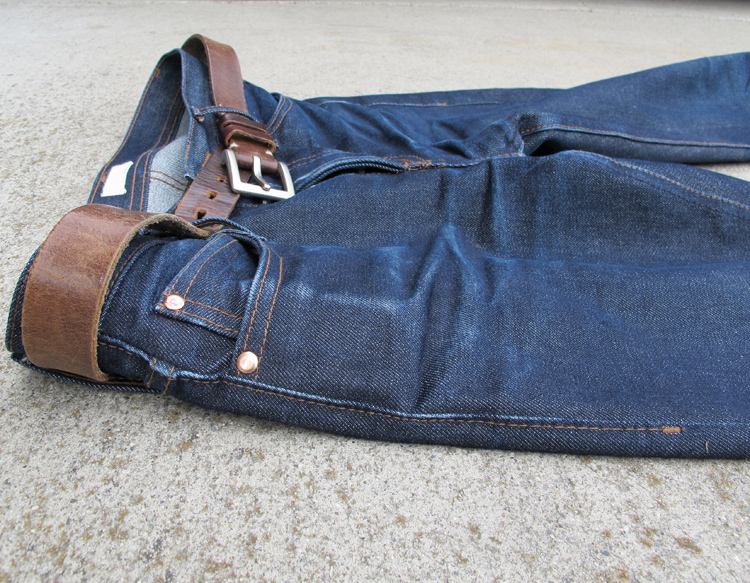
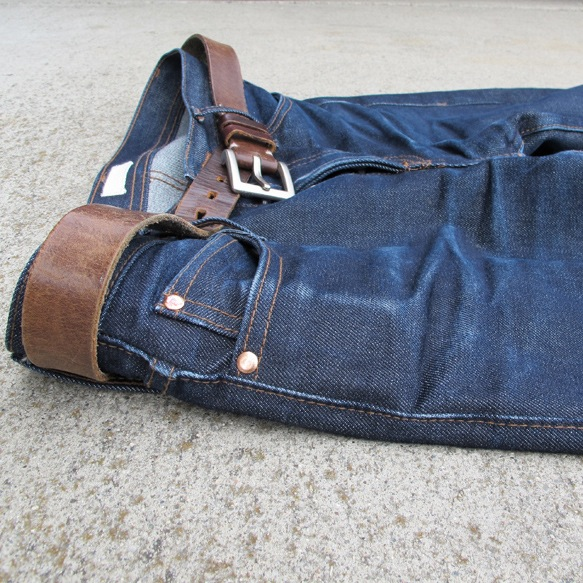
Updated image sizing, redid descriptions, changed a few items

diff --git a/index.html b/index.html
@@ -1,21 +1,15 @@
 <html>
   <head>
-    <title>A Basic (Frugal) Wardrobe</title>
+    <title>A (Frugal) Basic Wardrobe</title>
     <link rel="stylesheet" href="style.css">
     <link rel="stylesheet" href="basket.css">
     <link href='http://fonts.googleapis.com/css?family=Crimson+Text:400,600' rel='stylesheet' type='text/css'>
   </head>
   <body class="basket">
     <header class="basket-whole">
-      <h1>A Basic Wardrobe</h1>
+      <h1>A (Frugal) Basic Wardrobe</h1>
       <p>
         The goal of this website is to present a minimal <a target="_blank" href="http://en.wikipedia.org/wiki/Capsule_wardrobe">capsule wardrobe</a> for men with frugal pieces. Most, if not all, of the items will be under $100. Check the <a target="_blank" href="http://basicwardrobe.info">original site</a> for higher quality items.
-      </p>
-      <p>
-        A good thing to note is that frugal does not mean cheap. It is to get the best bang for your buck without sacrificing too much quality. High, mid, low end designations will still exist but it will be within the frugal range.
-      </p>
-      <p>
-        To stretch your dollar, wait for sales. Some companies (Land's End) do sales very often while other brands (Brooks Brothers) do sales at specific times in the year. Take advantage of sales when possible.
       </p>
       <br>
       <nav>
@@ -34,10 +28,10 @@
 
       <li>
         One Pair of Jeans
-        <img src="images/jeans.jpg" alt=""  width="200px">
+        <img src="images/jeans.jpg" alt=""   width="200px" height="200px">
       </li>
       <p>
-        A good pair of dark denim is a great choice for almost all occasions. Raw denim is nice to have but it does come with a higher price. Washed undistressed denim is a fine alternative.
+        A good pair of dark denim is a great choice for almost all occasions. Raw denim is nice to have but it does come with a higher price. Washed undistressed denim is a good, cheap alternative.
         <ul>
           <li><em>Suggestions:</em></li>
           <li><a target="_blank" href="http://us.levi.com/product/index.jsp?productId=2076855&&cp=3146842.3146854.11301980">Levi's 501 Shrink-to-Fit</a> <em class="price">(Mid Range)</em></li>
@@ -47,7 +41,7 @@
       </p>
       <li>
         Two Pairs of Chinos
-        <img src="images/chinos.jpg" alt="" width="200px">
+        <img src="images/chinos.jpg" alt=""  width="200px" height="200px">
       </li>
       <p>
         Cheap chinos are easy to find, but cheap chinos that fit is another story. Avoid buying cheap but loose chinos and focus on buying something that fits.
@@ -59,15 +53,14 @@
       </p>
       <li>
         Three Pairs of Shorts
-        <img src="images/shorts.jpg" alt="" width="200px">
+        <img src="images/shorts.jpg" alt=""  width="200px" height="200px">
       </li>
       <p>
-        When it gets hot, you want shorts.
+        When it gets hot, you want shorts. Looks great with a casual button up but make sure the fit of your shorts matches with the fit of your shirt.
       </p>
       <ul>
         <li><em>Suggestions:</em></li>
-        <li><a target="_blank" href="http://www.jcrew.com/mens_category/shortsswim/chino/PRDOVR~62952/62952.jsp">J. Crew Essential Chino Shorts</a> <em class="price">(Mid Range)</em></li>
-        <li><a target="_blank" href="http://canvas.landsend.com/pp/mens-comer-chino-short~235391_-1.html">Land's End Canvas Comer Chino Short</a> <em class="price">(Mid Range)</em></li>
+        <li><a target="_blank" href="http://www.jcpenney.com/dotcom/men/view-all-brands/stafford-prep-chino-shorts/prod.jump?ppId=pp5002320095&searchTerm=stafford+prep&dimCombo=null&dimComboVal=null&catId=SearchResults">Stafford Prep Chino Shorts</a> <em class="price">(Low End)</em></li>
         <li><a target="_blank" href="http://www.uniqlo.com/us/store/lifewear/men-belted-shortscordlane/071200-64-003">Uniqlo Belted Shorts</a> <em class="price">(Mid Range)</em></li>
       </ul>
 
@@ -75,11 +68,11 @@
       <hr />
 
       <li>
-        Three Oxford Button Downs
-        <img src="images/oxford.jpg" alt="" width="200px">
+        Three Oxford Cloth Button Downs
+        <img src="images/oxford.jpg" alt=""  width="200px" height="200px">
       </li>
       <p>
-        The oxford button down is a staple of modern male fashion, and a clothing item that every man should take seriously. Oxfords are great for the winter months and are easily paired with chinos, jeans, and jackets. The most important aspect of a button down is the fit of the shirt. When choosing an Oxford, look for a tailored cut and a thick collar.
+        Pretty much every company has their own version of the oxford cloth button down. Look for good fit and how fine the weave is. A tighter weave works for more formal occasions while looser weaves should be left to the weekend.
       </p>
         <ul>
           <li><em>Suggestions:</em></li>
@@ -89,7 +82,7 @@
       </p>
       <li>
         Two Patterned Button Ups
-        <img src="images/patterned.png" alt="" width="200px">
+        <img src="images/patterned.png" alt=""  width="200px" height="200px">
       </li>
       <p>
         Casual button up shirts are great for the weekend and sometimes work well with a more formal outfit. Again, fit is key, especially if you are wearing your shirts untucked.
@@ -102,10 +95,10 @@
       </p>
       <li>
         Four T-Shirts
-        <img src="images/tshirts.png" alt="" width="200px">
+        <img src="images/tshirts.png" alt=""  width="200px" height="200px">
       </li>
       <p>
-        A T-Shirt is about as basic as you can get. However, don't be fooled - finding the right T-Shirt can be quite tricky. A good T-Shirt is all about fit: too loose and you'll look downright sloppy, but too tight and you'll be showing off your body in ways you probably don't want to.
+        Finding a basic, unadorned, well fitting, cheap t-shirt is, for some reason, hard to find. Avoid graphic tees and look for something slim.
       </p>
       <ul>
         <li><em>Suggestions:</em></li>
@@ -114,10 +107,10 @@
       </ul>
       <li>
         Two Sweaters
-        <img src="images/sweaters.png" alt="" width="200px">
+        <img src="images/sweaters.png" alt=""  width="200px" height="200px">
       </li>
       <p>
-        Sweaters are a great way to stay warm when it's cold out. Sweaters are unique because they tend to look great with almost any button up shirt you can think of. They are, without a doubt, one of the core building blocks of layering. Cashmere is pretty expensive so stick with wool or wool blends.
+        Sweaters are ubiquitous in winter time but also can be worn as a layering piece in the spring or fall. Look for something thin for the warmer days and something chunky when it gets colder. Cashmere is pretty expensive so stick with wool or wool blends.
       </p>
       <ul>
         <li><em>Suggestions:</em></li>
@@ -130,22 +123,22 @@
 
       <li>
         A Light Jacket
-        <img src="images/lightjacket.png" alt="" width="200px">
+        <img src="images/lightjacket.png" alt=""  width="200px" height="200px">
       </li>
       <p>
-        Good method of layering in the fall and spring seasons. Keeps the wind out and keeps you a bit warmer at night.
+        Good method of layering in the fall and spring seasons. Keeps the wind out and keeps you a bit warmer at night. 
       </p>
       <ul>
         <li><em>Suggestions:</em></li>
         <li><a target="_blank" href="http://www.uniqlo.com/us/store/lifewear/men-uip-block-tech-full-zip-jacket/073164-04-005">Uniqlo UIP Block Tech Jacket </a> <em class="price">(Mid Range)</em></li>
-        <li><a target="_blank" href="http://www.landsend.com/pp/mens-wool-barracuda-jacket~228887_59.html">Land's End Barracuda Jacket</a> <em class="price">(High End)</em></li>
+        <li><a target="_blank" href="http://www.llbean.com/llb/shop/76612?feat=778-GN1&page=flight-jacket">LL Bean Signature Flight Jacket</a> <em class="price">(High End)</em></li>
       </ul>
       <li>
         A Coat
-        <img src="images/coat.png" alt="" width="200px">
+        <img src="images/coat.png" alt=""  width="200px" height="200px">
       </li>
       <p>
-        For the times when the weather gets particuraly cold, a coat can be your best friend. When considering a coat, wool is the only material that you should consider. For this reason, many people prefer a pea coat as the go-to option. A pea coat is a very well-established item with a rich history that pairs well with many other clothes. I would be quick to recommend it.
+        Don't buy cheap oversized coats. Buy a classic piece that lasts a long time.
       </p>
       <ul>
         <li><em>Suggestions:</em></li>
@@ -158,10 +151,10 @@
 
       <li>
         Boots
-        <img src="images/boots.jpg" alt="" width="200px">
+        <img src="images/boots.jpg" alt=""  width="200px" height="200px">
       </li>
       <p>
-        Boots are one of the most important items of footwear in a man's wardrobe. Boots are timeless and should be chosen with great care. It is very important to invest in a good pair of boots that will last a long time, conform to your feet, and develop a patina. Boots should only be worn with pants, but can go with almost any outfit.
+        Boots are one of the places where it does not pay to cheap out. Look for high quality construction and full grain leather. Leather soles for a more sleek, professional look and rubber soles for a more workwear look.
       </p>
       <ul>
         <li><em>Suggestions:</em></li>
@@ -173,10 +166,10 @@
       </ul>
       <li>
         Sneakers
-        <img src="images/sneakers.jpg" alt="" width="200px">
+        <img src="images/sneakers.jpg" alt=""  width="200px" height="200px">
       </li>
       <p>
-        Sometimes we just want to be straight-up causual, and there's nothing better for casual clothes than slipping on a pair of worn-in sneakers. Sneakers don't have to stand up to the same level of scrutiny as other shoes do, but some people slave over finding the perfect pair of sneakers. Grey, white, and navy are the most versatile colors.
+        Try to avoid logos in sneakers and look for a sleek design. Construction matters a bit less here.
       </p>
       <ul>
         <li><em>Suggestions:</em></li>
@@ -186,10 +179,10 @@
       </ul>
       <li>
         Casual Leather Shoes
-        <img src="images/casualshoes.jpg" alt="" width="200px">
+        <img src="images/casualshoes.png" alt=""  width="200px" height="200px">
       </li>
       <p>
-        Wingtips, boat shoes and wingtips are the foundataions of your casual shoe collection. 
+        Suede bucks, boat shoes and wingtips are the foundataions of your casual shoe collection. My opinion is that higher quality and construction is not as important here as with more formal or more rugged shoes. 
       </p>
       <ul>
         <li><em>Suggestions:</em></li>
@@ -203,10 +196,10 @@
 
       <li>
         One Navy Blazer
-        <img src="images/blazer.jpg" alt="" width="200px">
+        <img src="images/blazer.jpg" alt=""  width="200px" height="200px">
       </li>
       <p>
-        The navy blazer practically defines the word "staple." It's an essential in any wardrobe worth its salt. A blazer should be cut slim to the body and should be a tad bit shorter than your arm as it lays by your side. This is an item that is worth getting tailored.
+        There are a lot of cheap blazers in the market. Look for one that is well fitting and consider changing the buttons if you aren't satisfied with the current look.
       </p>
       <ul>
         <li><em>Suggestions:</em></li>
@@ -214,10 +207,10 @@
       </ul>
       <li>
         Two Dress Shirts
-        <img src="images/dressshirt.png" alt="" width="200px">
+        <img src="images/dressshirt.png" alt=""  width="200px" height="200px">
       </li>
       <p>
-        Dress shirts differ from regular button-ups in that they are usually made with a higher quality fabric (called pinpoint). Dress shirts usually don't have a button down collar, are measured by collar and shoulder sizes, and are longer than a casual shirt for tucking in. These shirts (similar to all formal attire) should be tailored.
+        Avoid shiny materials and stick with classic poplin or broadcloth. Make sure that it fits well and the thickness of the shirt is to your liking.
       </p>
       <ul>
         <li><em>Suggestions:</em></li>
@@ -225,32 +218,32 @@
         <li><a target="_blank" href="http://www.landsend.com/pp/mens-tailored-fit-solid-no-iron-supima-pinpoint-straight-collar-dress-shirt~242782_59.html">Lands End Tailored Fit</a> <em class="price">(Low End)</em></li>
       </ul>
       <li>
-        One Charcoal Suit
-        <img src="images/suit.png" alt="" width="200px">
+        A Suit
+        <img src="images/suit.png" alt=""  width="200px" height="200px">
       </li>
       <p>
-        There will undoubtably be a time in a man's life when a suit is needed. Charcoal is a good color because it goes well with shoes of all colors and can be worn to practically any event. A suit should be tailored to your body.
+        If you don't wear suits very often, you can get a little cheap here, but if you do, look into something higher end. When looking at suits, don't just look at the softness of the fabric, look at the construction and quality of the materials.
       </p>
       <ul>
         <li><em>Suggestions:</em></li>
-        <li><a target="_blank" href="http://www.blacklapel.com/suits/solid-charcoal.html">Black Lapel Solid Charcoal Suit</a> <em class="price">(Mid Range)</em></li>
+        <li><a target="_blank" href="http://factory.jcrew.com/mens-clothing/suiting.jsp">J. Crew Factory Charcoal Thompson Suit</a> <em class="price">(Low End)</em></li>
         <li><a target="_blank" href="http://us.suitsupply.com/suits/suit-grey-plain-havana-3p-p3520/P3520,en_US,pd.html?start=6&cgid=Suits">Suit Supply Havana 3P Plain</a> <em class="price">(Mid Range)</em></li>
       </ul>
       <li>
         Ties
-        <img src="images/ties.png" alt="" width="200px">
+        <img src="images/ties.png" alt=""  width="200px" height="200px">
       </li>
       <p>
-        Ties vary in an extreme amount of ways. However one thing should always be true: your tie should <em>always</em> match your shirt. Therefore, when looking for ties, keep in mind the colors your dress shirts (as well as the length of the tie) before making the purchase.
+        Again, if you don't wear ties everyday, you can cheap out a bit. Look for something that feels solid and makes a good knot. Lower quality ties will get more wrinkled easily.
       </p>
       <ul>
-        <li><a target="_blank" href="http://www.thetiebar.com/categoryPages/All_Ties.asp">The Tie Bar</a> <em class="price">(Low End)</em></li>
         <li><em>Suggestions:</em></li>
+        <li><a target="_blank" href="http://www.thetiebar.com/categoryPages/All_Ties.asp">The Tie Bar</a> <em class="price">(Low End)</em></li>
         <li><a target="_blank" href="http://www.landsend.com/ix/mens-clothing/Men/dress-shirts-ties/Mens-Ties-Pocket-Squares/index.html?seq=1~2~3~4&catNumbers=1~9~106&visible=1~2~1~1&pageSize=72&setSort=Price%3A+low+to+high">Land's End</a> <em class="price">(Mid Range)</em></li>
       </ul>
       <li>
         Dress Shoes
-        <img src="images/dressshoes.png" alt="" width="200px">
+        <img src="images/dressshoes.jpg" alt=""  width="200px" height="200px">
       </li>
       <p>
         This is where you cannot afford to be cheap. Cheap shoes just look cheap, use inferior leather and are poorly constructed. Try to get second quality shoes from established shoe brands such as Allen Edmonds or wait for sales.
@@ -266,10 +259,10 @@
 
       <li>
         A Rain Coat
-        <img src="images/raincoat.png" alt="" width="200px">
+        <img src="images/raincoat.png" alt=""  width="200px" height="200px">
       </li>
       <p>
-        When it rains, you're going to need a durable raincoat to keep you dry througout the day. Choose waterproof material that will last and a design that will work for both formal and informal occasions.
+        Trench coats and technical shells are a great addition to your wardrobe. If you're in the rain often, look into re-waterproofing your jacket once in a while.
       </p>
       <ul>
         <li><em>Suggestions:</em></li>
@@ -278,10 +271,10 @@
       </ul>
       <li>
         Rain Boots
-        <img src="images/rainboots.png" alt="" width="200px">
+        <img src="images/rainboots.png" alt=""  width="200px" height="200px">
       </li>
       <p>
-        When its pouring its a good idea to save your nice dress shoes and put on a pair of durable rain boots instead. Focus on utility over fashion for your rainboots.
+        Rainboots are something to wear to work to keep your good leather shoes from getting damaged. Utility over fashion for this one.
       </p>
       <ul>
         <li><em>Suggestions:</em></li>
@@ -289,7 +282,7 @@
       </ul>
      <li>
         Watches
-        <img src="images/watch.jpg" alt="" width="200px">
+        <img src="images/watch.jpg" alt=""  width="200px" height="200px">
       </li>
       <p>
         A watch adds some visual flair to your wrist and shows off a bit of your personality. Make sure the size of the watch fits your wrist.
